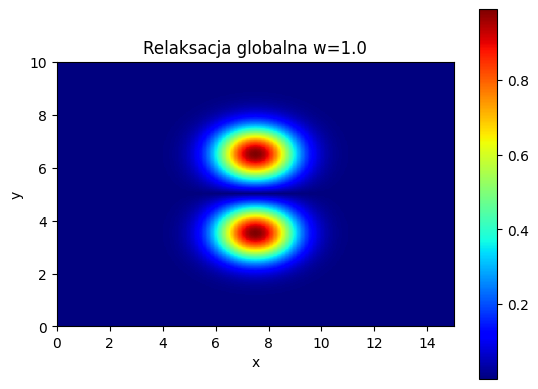
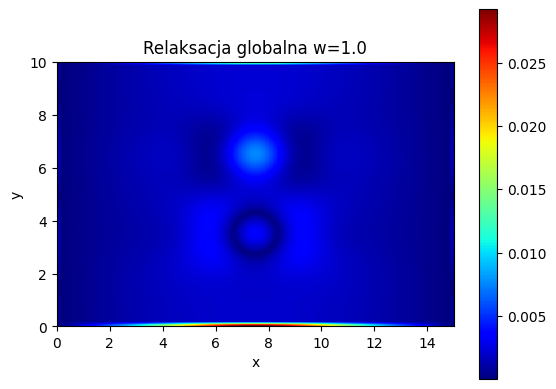
added numba to speed up the computation

diff --git a/lab4/zad1.py b/lab4/zad1.py
@@ -1,13 +1,15 @@
 import numpy as np
 import matplotlib.pyplot as plt
 import concurrent.futures
+import numba as nb
 
+@nb.jit(nopython=True)
 def calculate_S(V, rho,S=0):
     for i in range(0, nx):
         for j in range(0, ny):
             S += (delta**2) * (0.5*(((V[i+1,j]-V[i,j])/delta)**2) + 0.5*(((V[i,j+1]-V[i,j])/delta)**2) - (rho[i,j]*V[i,j]))
     return S
-
+@nb.jit(nopython=True)
 def global_relaxation(V, rho, omega):
     V_new = np.zeros_like(V)
     V_new[:, 0] = V1
@@ -20,7 +22,7 @@ def global_relaxation(V, rho, omega):
         V_new[nx, j] = V_new[nx-1, j]
     V = (1 - omega) * V + omega * V_new
     return V
-
+@nb.jit(nopython=True)
 def local_relaxation(V, rho, omega):
     for i in range(1, nx):
         for j in range(1, ny):
@@ -29,24 +31,22 @@ def local_relaxation(V, rho, omega):
         V[0, j] = V[1, j]
         V[nx, j] = V[nx-1, j]
     return V
-
+@nb.jit(nopython=True)
 def rho(x, y):
     rho1 = np.exp(-((x - 0.35 * xmax)**2 / sigma_x**2 + (y - 0.5 * ymax)**2 / sigma_y**2))
     rho2 =-np.exp(-((x - 0.65 * xmax)**2 / sigma_x**2 + (y - 0.5 * ymax)**2 / sigma_y**2))
     return rho1 + rho2
-
 def laplacian(V):
     grad_x, grad_y = np.gradient(V)
     grad_xx, _ = np.gradient(grad_x)
     _, grad_yy = np.gradient(grad_y)
-    return grad_xx + grad_yy
-
+    return (grad_xx + grad_yy)/(delta**2)
 def solve_error(V, rho):
     delta = laplacian(V) + rho/epsilon
     # make all negative values positive
     delta[delta < 0] *= -1
     return delta
-
+@nb.jit(nopython=True)
 def compute_for_omega(omega, relaxation_type):
     V = np.zeros((nx+1, ny+1))
     V[:, 0] = V1

diff --git a/lab5/zad1.py b/lab5/zad1.py
@@ -2,6 +2,7 @@ import numpy as np
 import matplotlib.pyplot as plt
 import math
 from matplotlib import colormaps
+import numba as nb
 
 delta = 0.2
 nx = 128
@@ -11,11 +12,12 @@ ymax = delta * ny
 TOL = 1e-8
 kArray = [16,8,4,2,1]
 
+@nb.jit(nopython=True)
 def relaxate(V,k):
     for i in range(k,nx,k):
         for j in range(k,ny,k):
             V[i][j] = 0.25*(V[i+k][j] + V[i-k][j] + V[i][j+k] + V[i][j-k])
-
+@nb.jit(nopython=True)
 def S(V,k):
     sum = 0
     for i in range(0,nx,k):
@@ -25,7 +27,7 @@ def S(V,k):
             pow((V[i,j+k] - V[i,j] + V[i+k,j+k] - V[i+k,j])/(2*k*delta),2) 
             )
     return sum
-
+@nb.jit(nopython=True)
 def dens_mesh(V,k):
     k2 = k//2
     for i in range(0,nx,k):
@@ -35,7 +37,7 @@ def dens_mesh(V,k):
             V[i+k2][j+k] = 0.5*(V[i][j+k]+V[i+k][j+k])
             V[i+k2][j] = 0.5*(V[i][j]+V[i+k][j])
             V[i][j+k2] = 0.5*(V[i][j]+V[i][j+k])
-
+@nb.jit(nopython=False)
 def main():
     V = np.zeros((nx+1, ny+1))
     sArray = {}
